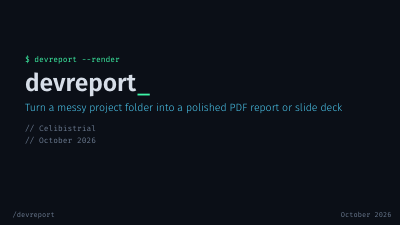
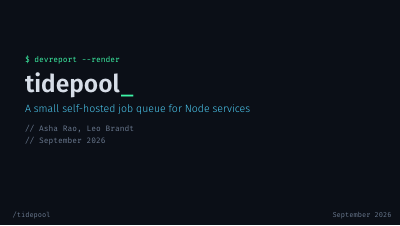
Theme previews: fixed sample deck/report, 4 pages per theme, regen script

diff --git a/server.js b/server.js
@@ -562,10 +562,10 @@ function sse(req, res, id) {
   req.on('close', () => { clearInterval(ping); job.clients.delete(res); });
 }
 
-function serveFile(res, file, type) {
+function serveFile(res, file, type, cache = 'no-store') {
   fs.stat(file, (err, st) => {
     if (err || !st.isFile()) return json(res, 404, { error: 'Not found' });
-    res.writeHead(200, { 'content-type': type, 'content-length': st.size, 'cache-control': 'no-store' });
+    res.writeHead(200, { 'content-type': type, 'content-length': st.size, 'cache-control': cache });
     fs.createReadStream(file).pipe(res);
   });
 }
@@ -575,8 +575,8 @@ const server = http.createServer((req, res) => {
   const p = url.pathname;
   if (req.method === 'GET' && (p === '/' || p === '/index.html')) return serveFile(res, path.join(ROOT, 'index.html'), 'text/html; charset=utf-8');
   if (req.method === 'POST' && p === '/api/jobs') return createJob(req, res);
-  const pv = /^\/previews\/([a-z]+(?:-report)?)\.png$/.exec(p); // theme thumbnails for the pickers
-  if (req.method === 'GET' && pv && Object.hasOwn(THEMES, pv[1].replace(/-report$/, ''))) return serveFile(res, path.join(ROOT, '.claude/skills/devreport/themes/previews', pv[1] + '.png'), 'image/png');
+  const pv = /^\/previews\/([a-z]+)((?:-report)?(?:\.png|-[1-4]\.jpg))$/.exec(p); // theme thumbnails (.png) and preview pages (-N.jpg) for the pickers
+  if (req.method === 'GET' && pv && Object.hasOwn(THEMES, pv[1])) return serveFile(res, path.join(ROOT, '.claude/skills/devreport/themes/previews', pv[1] + pv[2]), pv[2].endsWith('.png') ? 'image/png' : 'image/jpeg', 'max-age=3600');
   const r = /^\/api\/jobs\/([^/]+)\/(revise|answers|theme)$/.exec(p);
   if (req.method === 'POST' && r) return !ID_RE.test(r[1]) ? json(res, 400, { error: 'Bad job id' }) : { revise: reviseJob, answers: answerJob, theme: switchTheme }[r[2]](req, res, r[1]);
   const m = /^\/api\/jobs\/([^/]+)\/(events|main\.pdf|main\.tex|v\d{1,3}\.pdf)$/.exec(p);

diff --git a/.claude/skills/devreport/themes/sample/report.tex b/.claude/skills/devreport/themes/sample/report.tex
@@ -1,0 +1,65 @@
+% Sample report for the Paper and Midnight previews (scripts/previews.sh).
+\documentclass[11pt]{article}
+\input{theme.tex}
+
+\title{tidepool}
+\subtitle{A small self-hosted job queue for Node services}
+\author{Asha Rao, Leo Brandt}
+\date{September 2026}
+
+\begin{document}
+\maketitle
+
+\noindent\drkpi{104 ms}{p95 latency}\hfill\drkpi{99.2\%}{jobs succeed}\hfill\drkpi{1.8k}{jobs / min}\hfill\drkpi{0}{lost jobs}
+
+\bigskip
+
+tidepool runs background jobs for our Node services out of one Postgres table. We built it to replace a Redis queue that lost jobs on every failover, and to keep the job history in the same database as the rest of our data.
+
+\section{How it works}
+
+Each job is a row. Workers claim rows with \texttt{SELECT \dots{} FOR UPDATE SKIP LOCKED}, so two workers never take the same job and no lock server is needed.
+
+\begin{itemize}
+  \item Failed jobs back off exponentially and retry up to five times.
+  \item A small Go sidecar moves jobs past the retry cap into a review queue.
+  \item The dashboard reads the same table, so there is no second store to keep in sync.
+\end{itemize}
+
+\subsection{Latency}
+
+We tuned the claim query and the index on \texttt{run\_at} over eight weeks. The p95 time from enqueue to start fell from 212 ms to 104 ms.
+
+\begin{figure}[h]
+\centering
+\begin{tikzpicture}
+\begin{axis}[height=5cm, xlabel={week}, ylabel={ms}, ymin=0, xtick=data, legend pos=north east]
+\addplot table[col sep=comma, x=week, y=p95]{data/latency.csv};
+\addplot table[col sep=comma, x=week, y=p50]{data/latency.csv};
+\legend{p95, p50}
+\end{axis}
+\end{tikzpicture}
+\caption{Enqueue-to-start latency by week.}
+\end{figure}
+
+\section{Failures}
+
+Most failed jobs were timeouts in calls to a slow payment API. Raising its timeout and moving it to its own worker pool removed about half of them.
+
+\begin{figure}[h]
+\centering
+\begin{tikzpicture}\drsafecats
+\begin{axis}[drbar, height=5cm, width=0.8\linewidth, xtick=data, xticklabels from table={data/failures.csv}{cause}, table/col sep=comma, ymin=0, enlarge x limits=0.12, nodes near coords]
+\addplot table[col sep=comma, x expr=\coordindex, y=count]{data/failures.csv};
+\end{axis}
+\end{tikzpicture}
+\caption{Failed jobs by cause over the eight weeks.}
+\end{figure}
+
+\begin{figure}[h]
+\centering
+\drpie{data/languages.csv}{language}{lines}
+\caption{Lines of code by language.}
+\end{figure}
+
+\end{document}

diff --git a/.claude/skills/devreport/themes/sample/main.tex b/.claude/skills/devreport/themes/sample/main.tex
@@ -1,0 +1,59 @@
+% Sample deck for the theme previews (scripts/previews.sh). Uses only the shared dr* interface, like a real job.
+\documentclass[aspectratio=169,11pt]{beamer}
+\input{theme.tex}
+
+\title{tidepool}
+\subtitle{A small self-hosted job queue for Node services}
+\author{Asha Rao, Leo Brandt}
+\date{September 2026}
+
+\begin{document}
+
+\begin{frame}
+\titlepage
+\end{frame}
+
+\begin{frame}{How it works}
+\framesubtitle{One Postgres table, many workers}
+\begin{itemize}
+\item Jobs are rows; workers claim them with \texttt{SKIP LOCKED}.
+\item Failed jobs back off and retry up to five times.
+\item A Go sidecar drains dead letters into a review queue.
+\item The dashboard reads the same table, so there is no second store.
+\end{itemize}
+\end{frame}
+
+\begin{frame}{Results after eight weeks}
+\noindent\drkpi{104 ms}{p95 latency}\hfill\drkpi{99.2\%}{jobs succeed}\hfill\drkpi{1.8k}{jobs / min}\hfill\drkpi{0}{lost jobs}
+
+\medskip
+\centering
+\begin{tikzpicture}
+\begin{axis}[height=4.3cm, width=0.9\linewidth, xlabel={week}, ylabel={ms}, ymin=0, xtick=data, legend pos=north east]
+\addplot table[col sep=comma, x=week, y=p95]{data/latency.csv};
+\addplot table[col sep=comma, x=week, y=p50]{data/latency.csv};
+\legend{p95, p50}
+\end{axis}
+\end{tikzpicture}
+\end{frame}
+
+\begin{frame}{Where the failures came from}
+\begin{columns}[c]
+\begin{column}{0.55\linewidth}\centering
+\begin{tikzpicture}\drsafecats
+\begin{axis}[drbar, height=5.2cm, width=\linewidth, xtick=data, xticklabels from table={data/failures.csv}{cause}, table/col sep=comma, ymin=0, enlarge x limits=0.12, nodes near coords]
+\addplot table[col sep=comma, x expr=\coordindex, y=count]{data/failures.csv};
+\end{axis}
+\end{tikzpicture}
+
+{\drCaption Failed jobs by cause}
+\end{column}
+\begin{column}{0.42\linewidth}\centering
+\drpie[radius=1.5]{data/languages.csv}{language}{lines}
+
+{\drCaption Lines by language}
+\end{column}
+\end{columns}
+\end{frame}
+
+\end{document}

diff --git a/HANDOFF.md b/HANDOFF.md
@@ -260,6 +260,6 @@ claude -p "<prompt from .claude/skills/devreport/prompt.txt with {{kind}} {{them
 claude --resume <sessionId> -p "<answered|skipped line>" ...   # after questions; session_id comes from the system/init event
 ```
 `{{length}}` is filled as e.g. `6 slides` or `4 pages`. `POST /api/jobs/:id/answers` takes `{"answers":{"q1":"..."}}` (ids from questions.json, ≤ 2000 chars each, at least one non-empty) or `{"skip":true}`; 409 unless status is `waiting`. SSE events: `step`, `questions` `{questions}`, `done`, `failed`.
-Theme files live in `.claude/skills/devreport/themes/devreport-<theme>.sty`, loaded by relative path from theme.tex. paper/midnight do article + beamer; the slides-only adapters load their Beamer theme and `devreport-core.sty` (the shared `dr*` interface: colours, `\drkpi`, `\drpie`, `\drsafecats`, `drbar`/`drhbar`, and the type scale `\drTitle \drLead \drH \drSub \drBody \drSmall \drCaption \drStat`). moloch and focus aren't in the tectonic bundle, so they are vendored in `themes/vendor/` with their licenses (CC BY-SA 4.0, GPL-3.0); metropolis, trigon and Madrid come from the bundle. `themes/previews/*.png` are page one of a sample deck/report per theme.
+Theme files live in `.claude/skills/devreport/themes/devreport-<theme>.sty`, loaded by relative path from theme.tex. paper/midnight do article + beamer; the slides-only adapters load their Beamer theme and `devreport-core.sty` (the shared `dr*` interface: colours, `\drkpi`, `\drpie`, `\drsafecats`, `drbar`/`drhbar`, and the type scale `\drTitle \drLead \drH \drSub \drBody \drSmall \drCaption \drStat`). moloch and focus aren't in the tectonic bundle, so they are vendored in `themes/vendor/` with their licenses (CC BY-SA 4.0, GPL-3.0); metropolis, trigon and Madrid come from the bundle. `themes/previews/` holds, per theme, `<theme>.png` (400 px thumb of page 1) and `<theme>-1..4.jpg` (1000 px pages for the hover preview), plus `<theme>-report.png` / `-report-1..2.jpg` (800 px) for paper and midnight. They come from the fixed sample in `themes/sample/` (main.tex, report.tex, data/*.csv); regenerate with `sh scripts/previews.sh [theme ...]` (tectonic + pdftoppm). `GET /previews/<theme>[-report](.png|-N.jpg)` serves them.
 
 `POST /api/jobs/:id/theme {theme}`: 409 unless the job is `done` and not being revised/switched; 400 if the theme is unknown, slides-only on a report, or `custom` without a template. Writes theme.tex, swaps in `themes/<theme>.pdf` or runs `tectonic main.tex` (60 s timeout), updates job.json; returns `{theme, pdf (cache-busted), ms, cached}`. On a failed compile it restores theme.tex and main.pdf and returns 422 with the first error line. An older main.tex with a hard-coded theme line is rewritten to `\input{theme.tex}` on its first switch.
